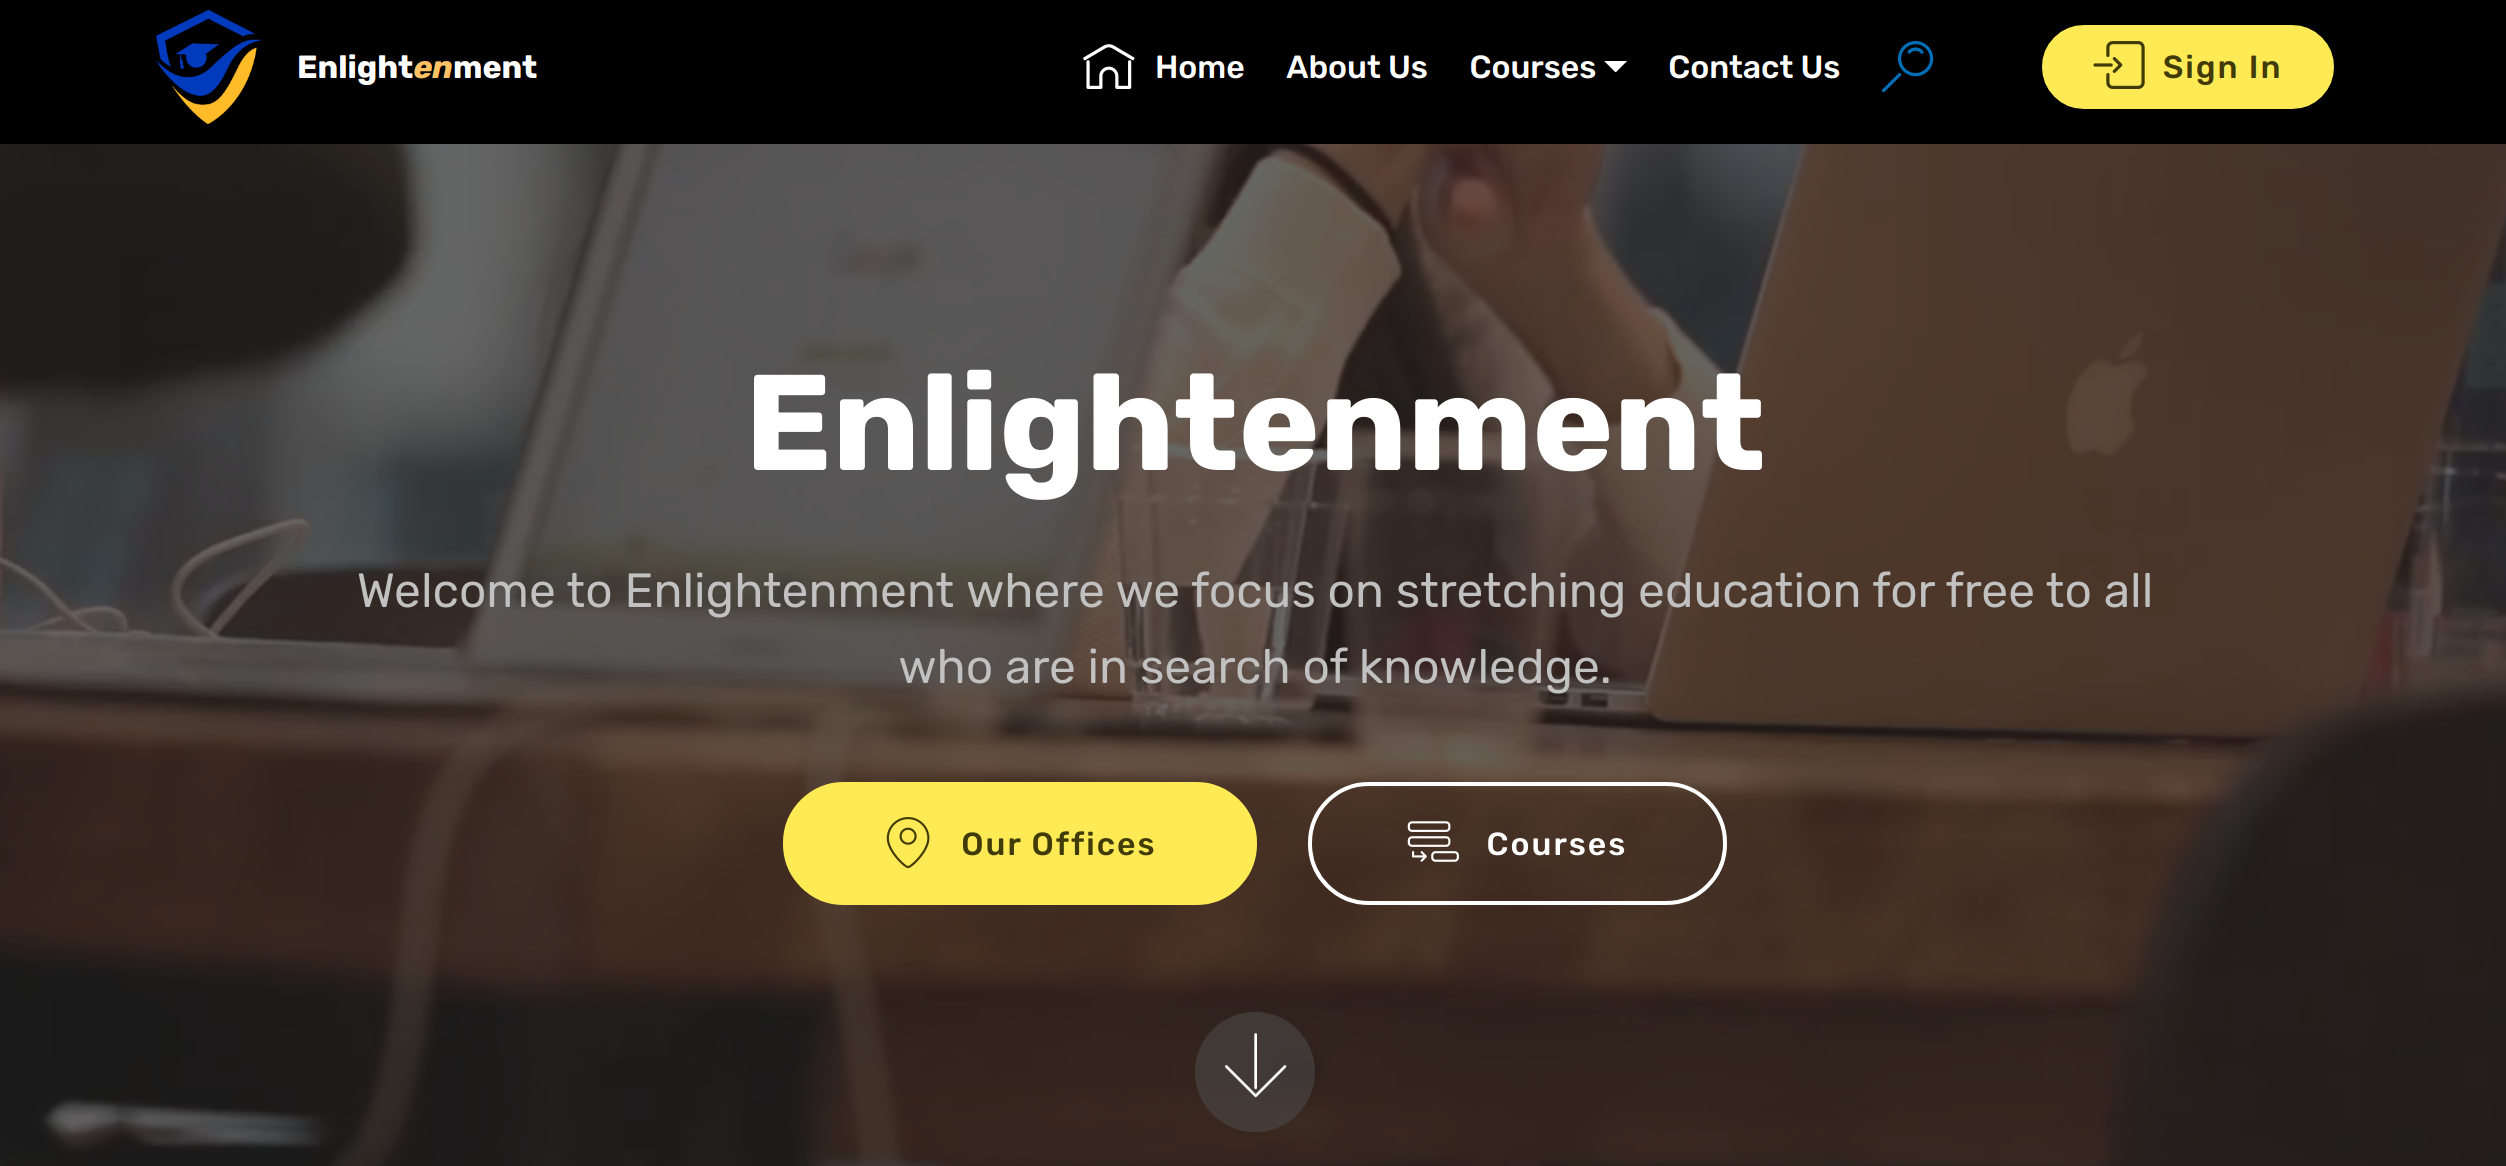
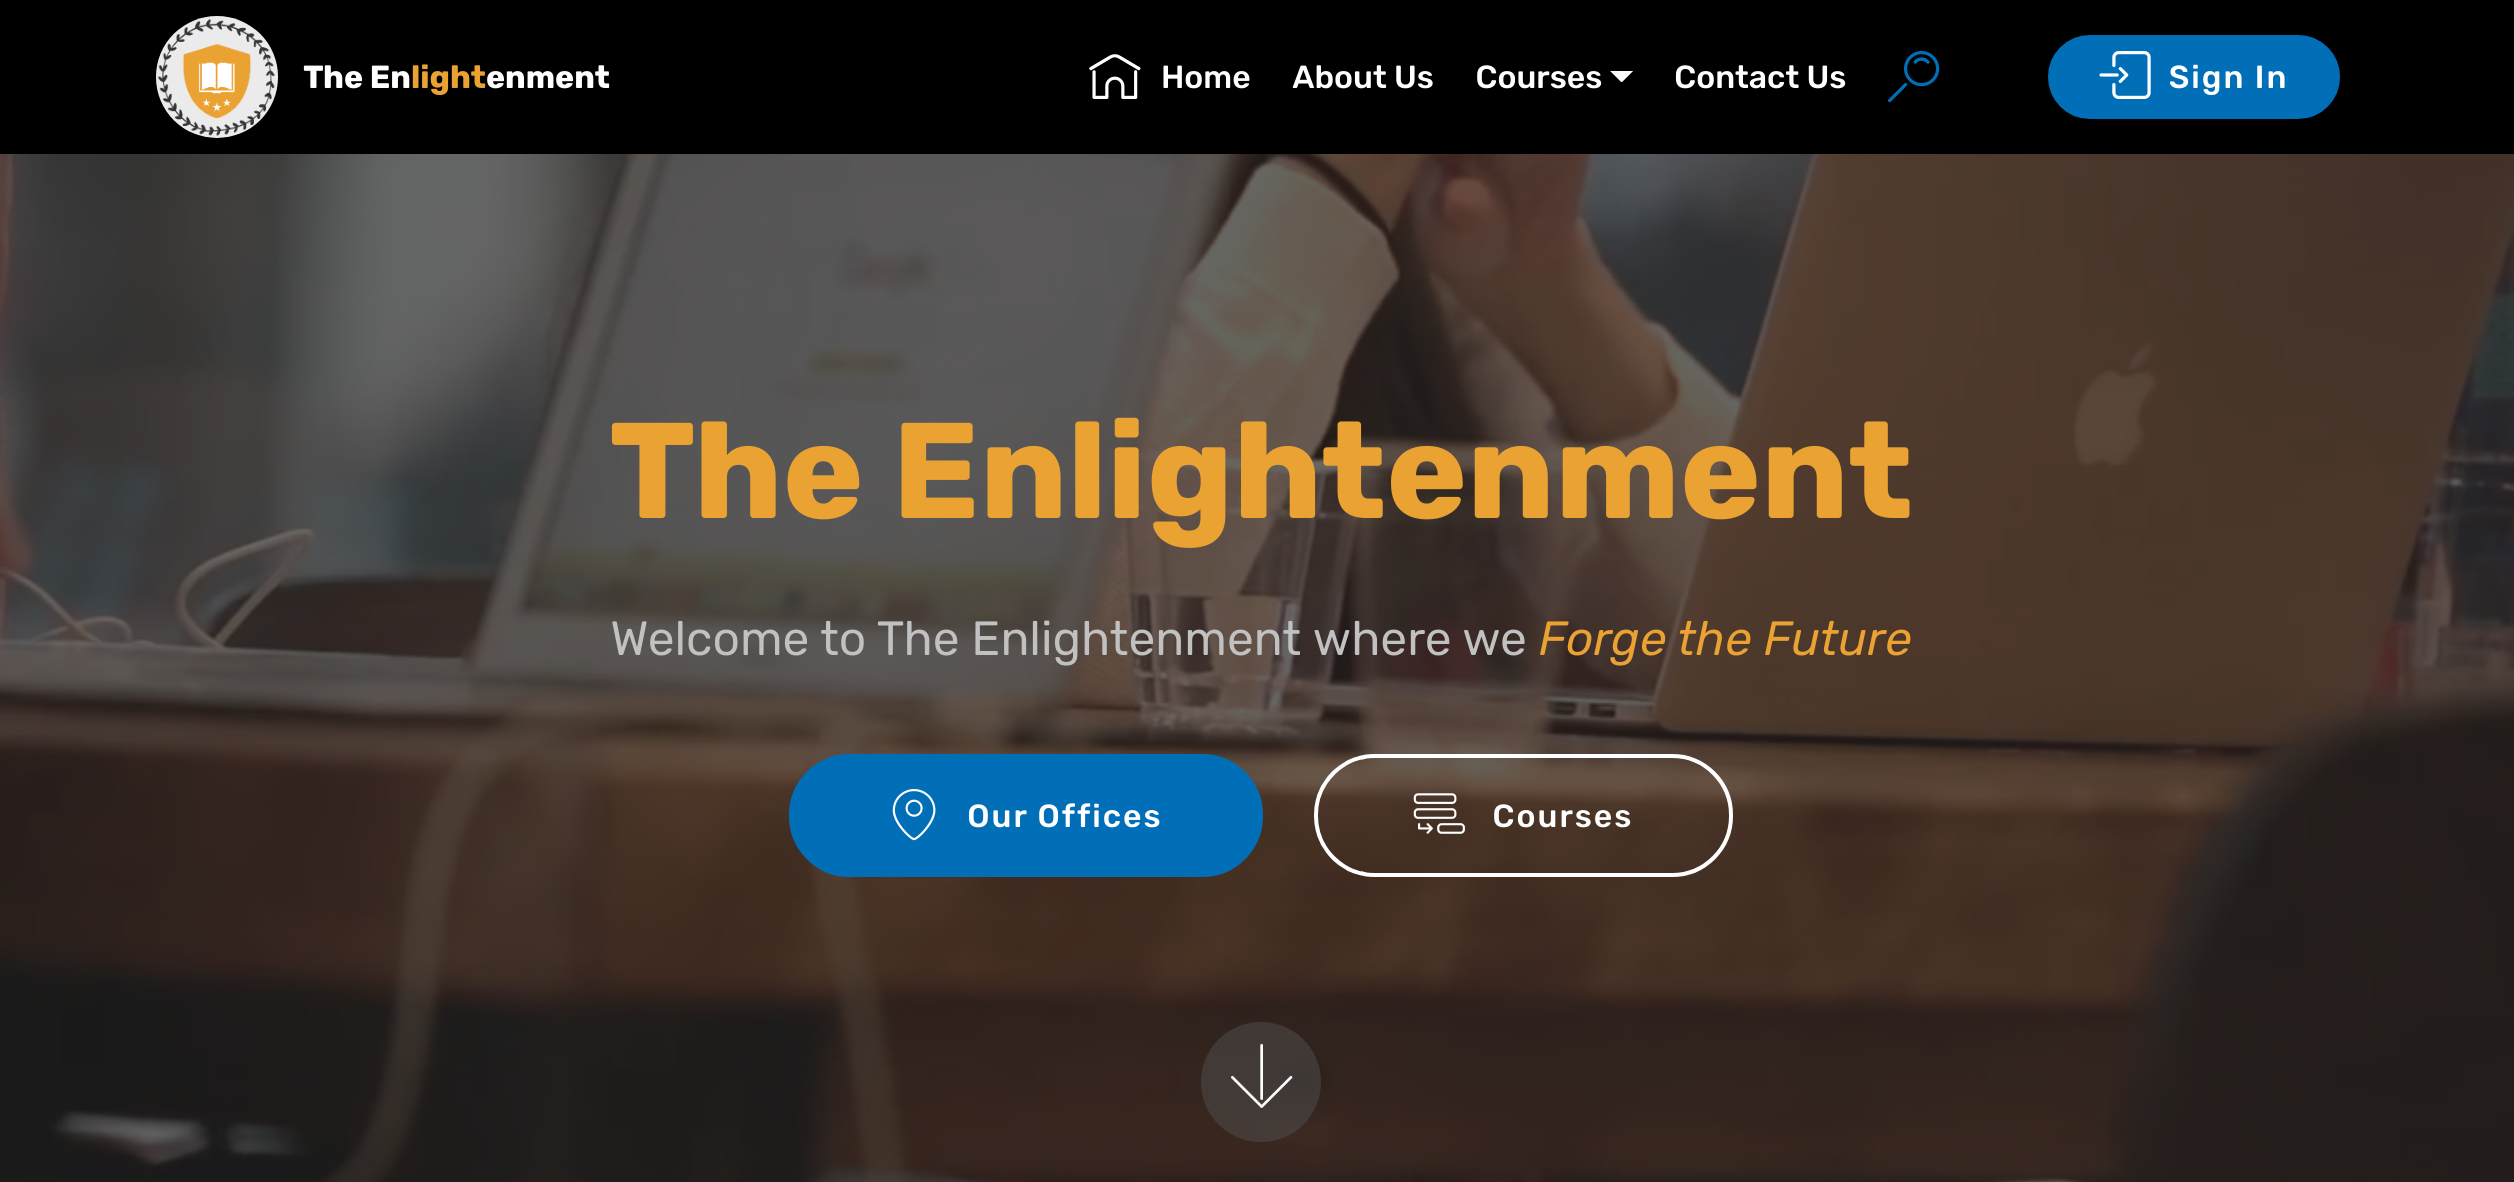
deploy

diff --git a/public/stylesheets/mbr-additional.css b/public/stylesheets/mbr-additional.css
@@ -168,23 +168,23 @@ body {
 }
 .btn-success,
 .btn-success:active {
-  background-color: #f7ed4a !important;
-  border-color: #f7ed4a !important;
-  color: #3f3c03 !important;
+  background-color: #DAA625 !important;
+  border-color: #DAA625 !important;
+  color: #000000 !important;
 }
 .btn-success:hover,
 .btn-success:focus,
 .btn-success.focus,
 .btn-success.active {
-  color: #3f3c03 !important;
-  background-color: #eadd0a !important;
-  border-color: #eadd0a !important;
+  color: #ffffff !important;
+  background-color: #DAA625 !important;
+  border-color: #DAA625 !important;
 }
 .btn-success.disabled,
 .btn-success:disabled {
   color: #3f3c03 !important;
-  background-color: #eadd0a !important;
-  border-color: #eadd0a !important;
+  background-color: #00B5CA !important;
+  border-color: #00B5CA !important;
 }
 .btn-warning,
 .btn-warning:active {
@@ -332,16 +332,16 @@ body {
 .btn-success-outline,
 .btn-success-outline:active {
   background: none;
-  border-color: #d2c609;
-  color: #d2c609;
+  border-color: #DAA625;
+  color: #DAA625;
 }
 .btn-success-outline:hover,
 .btn-success-outline:focus,
 .btn-success-outline.focus,
 .btn-success-outline.active {
   color: #3f3c03;
-  background-color: #f7ed4a;
-  border-color: #f7ed4a;
+  background-color: #DAA625;
+  border-color: #DAA625;
 }
 .btn-success-outline.disabled,
 .btn-success-outline:disabled {
@@ -1660,7 +1660,8 @@ section.lazy-placeholder:after {
 .cid-qTkAaeaxX5 {
   padding-top: 60px;
   padding-bottom: 60px;
-  background-color: #000000;
+  background-color: #EBEBEB;
+  color: black !important
 }
 @media (max-width: 767px) {
   .cid-qTkAaeaxX5 .content {
@@ -1680,7 +1681,7 @@ section.lazy-placeholder:after {
   color: #f36;
 }
 .cid-qTkAaeaxX5 .media-wrap img {
-  height: 6rem;
+  height: 15rem;
 }
 @media (max-width: 767px) {
   .cid-qTkAaeaxX5 .footer-lower .copyright {
@@ -1690,7 +1691,7 @@ section.lazy-placeholder:after {
 }
 .cid-qTkAaeaxX5 .footer-lower hr {
   margin: 1rem 0;
-  border-color: #fff;
+  border-color: rgb(0, 0, 0);
   opacity: .05;
 }
 .cid-qTkAaeaxX5 .footer-lower .social-list {
@@ -1704,7 +1705,7 @@ section.lazy-placeholder:after {
 }
 .cid-qTkAaeaxX5 .footer-lower .social-list .mbr-iconfont-social {
   font-size: 1.3rem;
-  color: #fff;
+  color: rgb(0, 0, 0);
 }
 .cid-qTkAaeaxX5 .footer-lower .social-list .soc-item {
   margin: 0 .5rem;
@@ -2789,7 +2790,8 @@ section.lazy-placeholder:after {
 .cid-s3vRrgSi8K {
   padding-top: 45px;
   padding-bottom: 45px;
-  background-color: #000000;
+  background-color: #EBEBEB;
+  color: black !important;
 }
 @media (max-width: 767px) {
   .cid-s3vRrgSi8K .content {
@@ -2800,7 +2802,7 @@ section.lazy-placeholder:after {
   }
 }
 .cid-s3vRrgSi8K .img-logo img {
-  height: 6rem;
+  height: 10rem;
 }
 .cid-s3vRrgSi8K .form-group,
 .cid-s3vRrgSi8K .input-group-btn {
@@ -2828,7 +2830,7 @@ section.lazy-placeholder:after {
 }
 .cid-s3vRrgSi8K .social-list .mbr-iconfont-social {
   font-size: 1.3rem;
-  color: #fff;
+  color: rgb(0, 0, 0);
 }
 .cid-s3vRrgSi8K .social-list .soc-item {
   margin: 0 .5rem;
@@ -4686,6 +4688,8 @@ section.lazy-placeholder:after {
 }
 .cid-s3zyBVSTo0 .nav-tabs .nav-link:hover {
   background: #149dcc;
+  color: #ffffff;
+  border: 2px solid #ffffff;
 }
 .cid-s3zyBVSTo0 .nav-tabs .nav-link.active {
   color: #ffffff;
@@ -9013,8 +9017,8 @@ section.lazy-placeholder:after {
   color: #c1c1c1 !important;
 }
 .cid-s3AmiWQdrR {
-  padding-top: 90px;
-  padding-bottom: 90px;
+  padding-top: 90px; 
+  padding-bottom: 90px;  
 }
 .cid-s3AmiWQdrR P {
   color: #767676;
